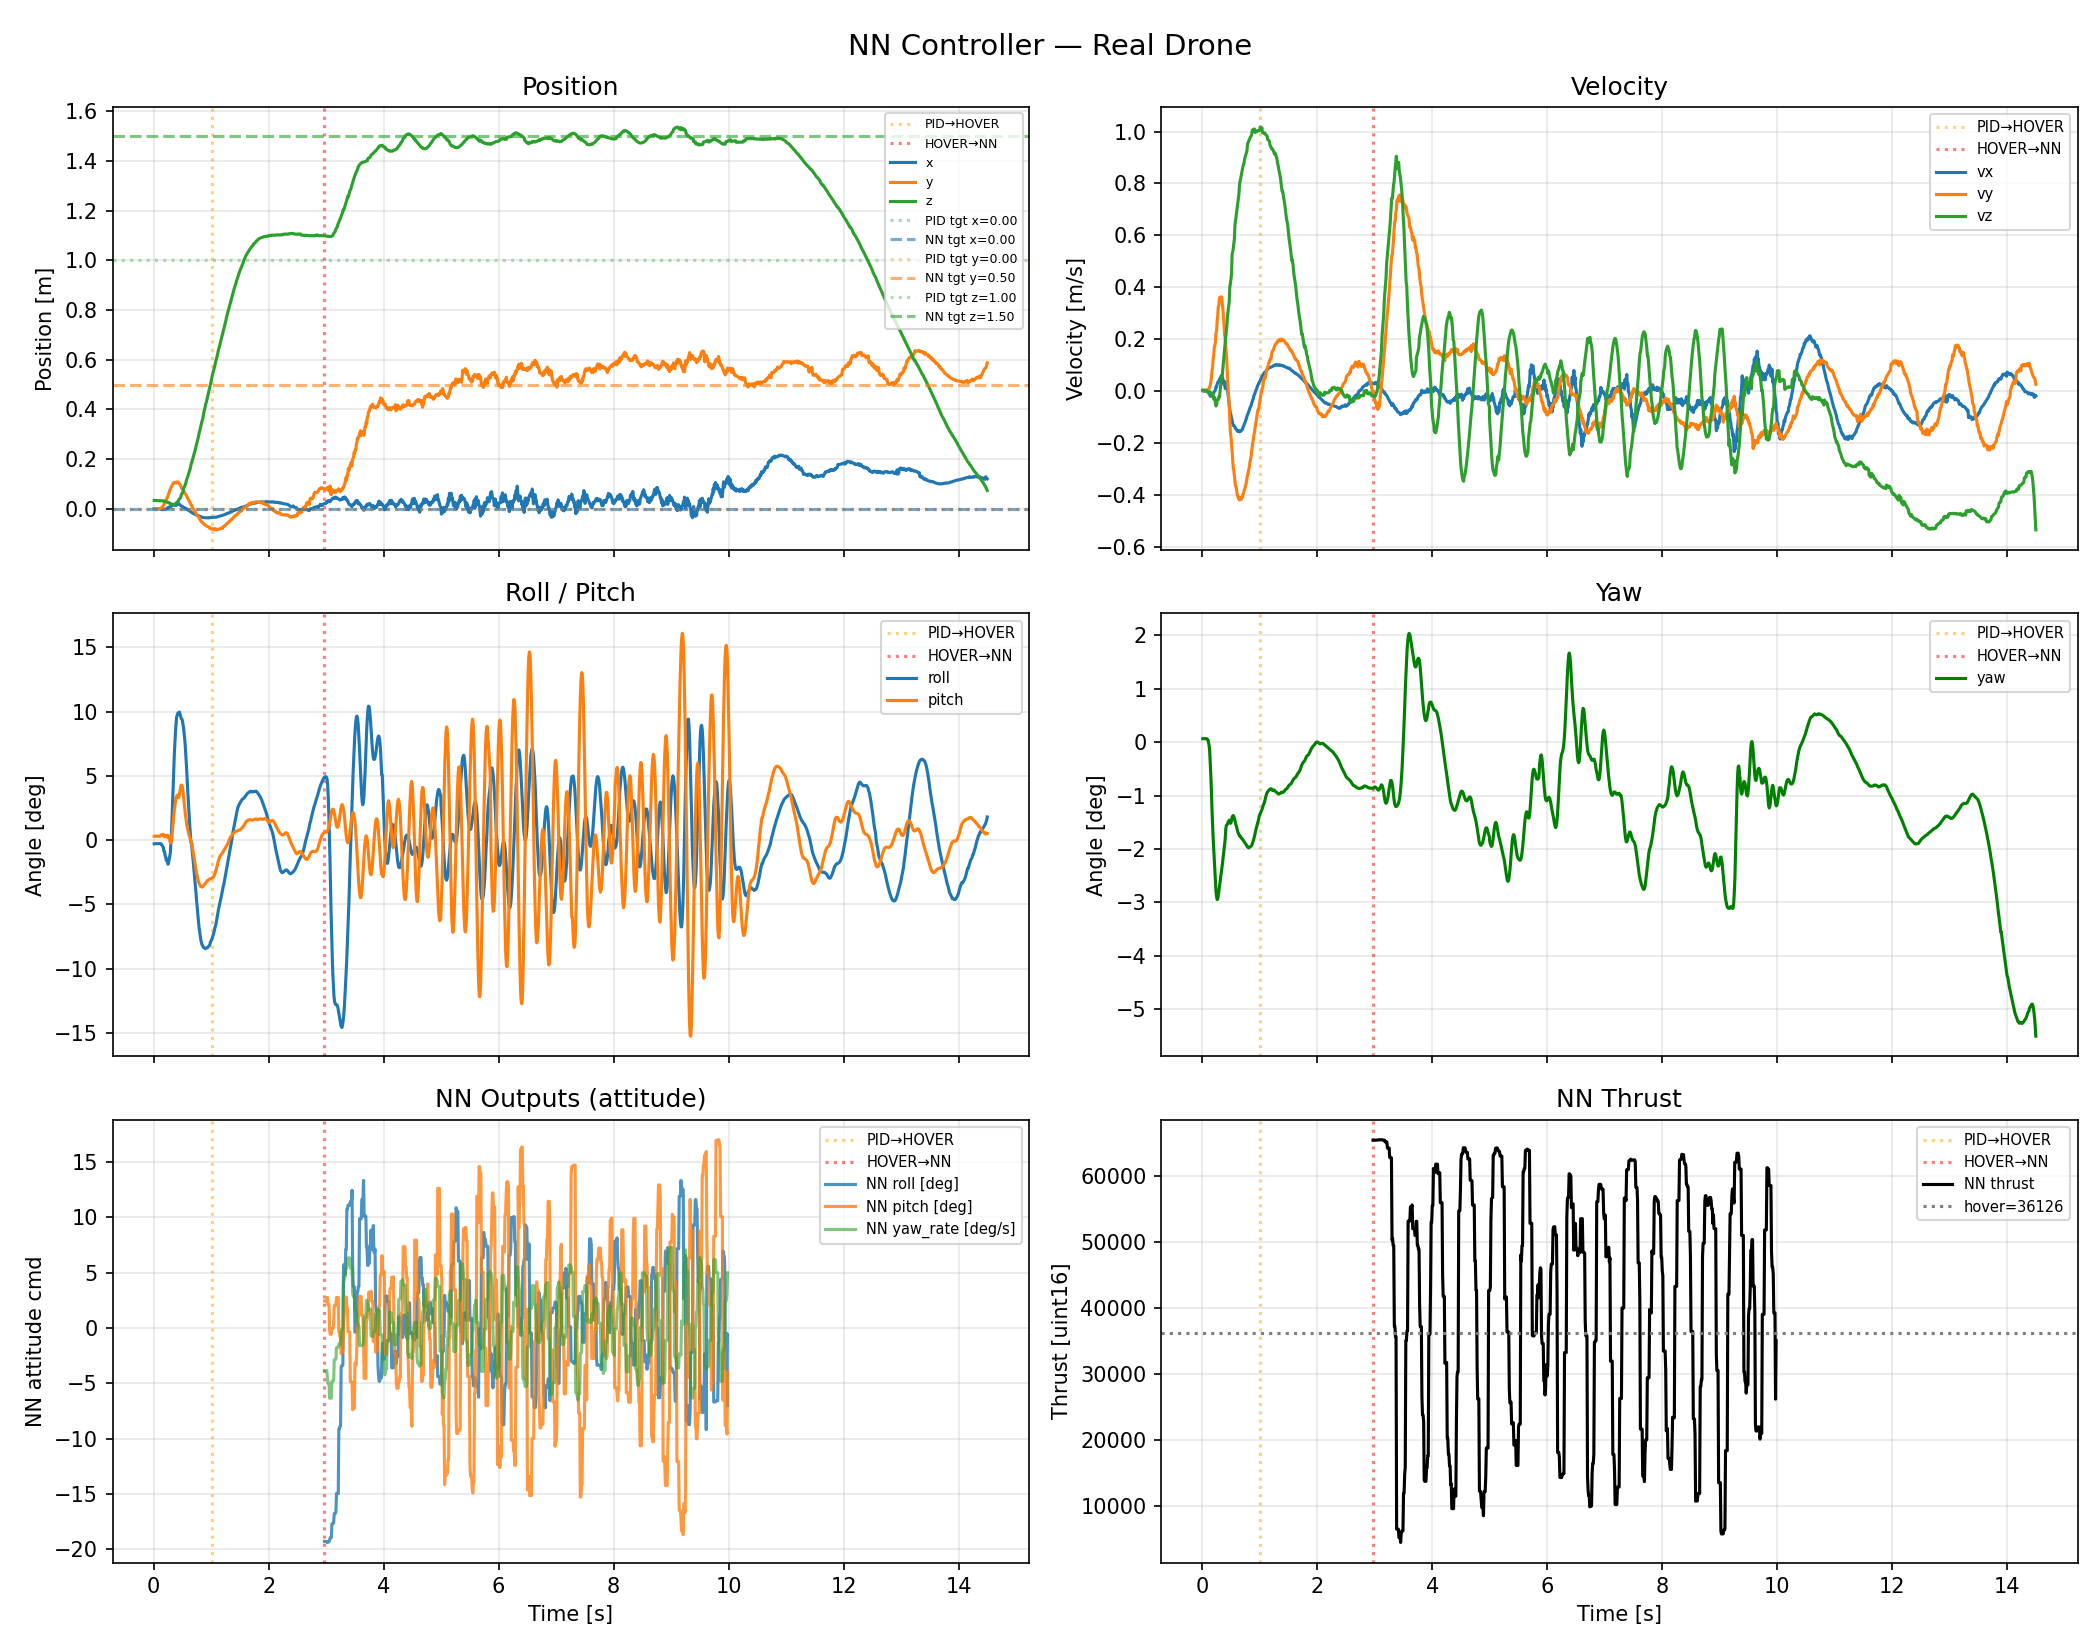
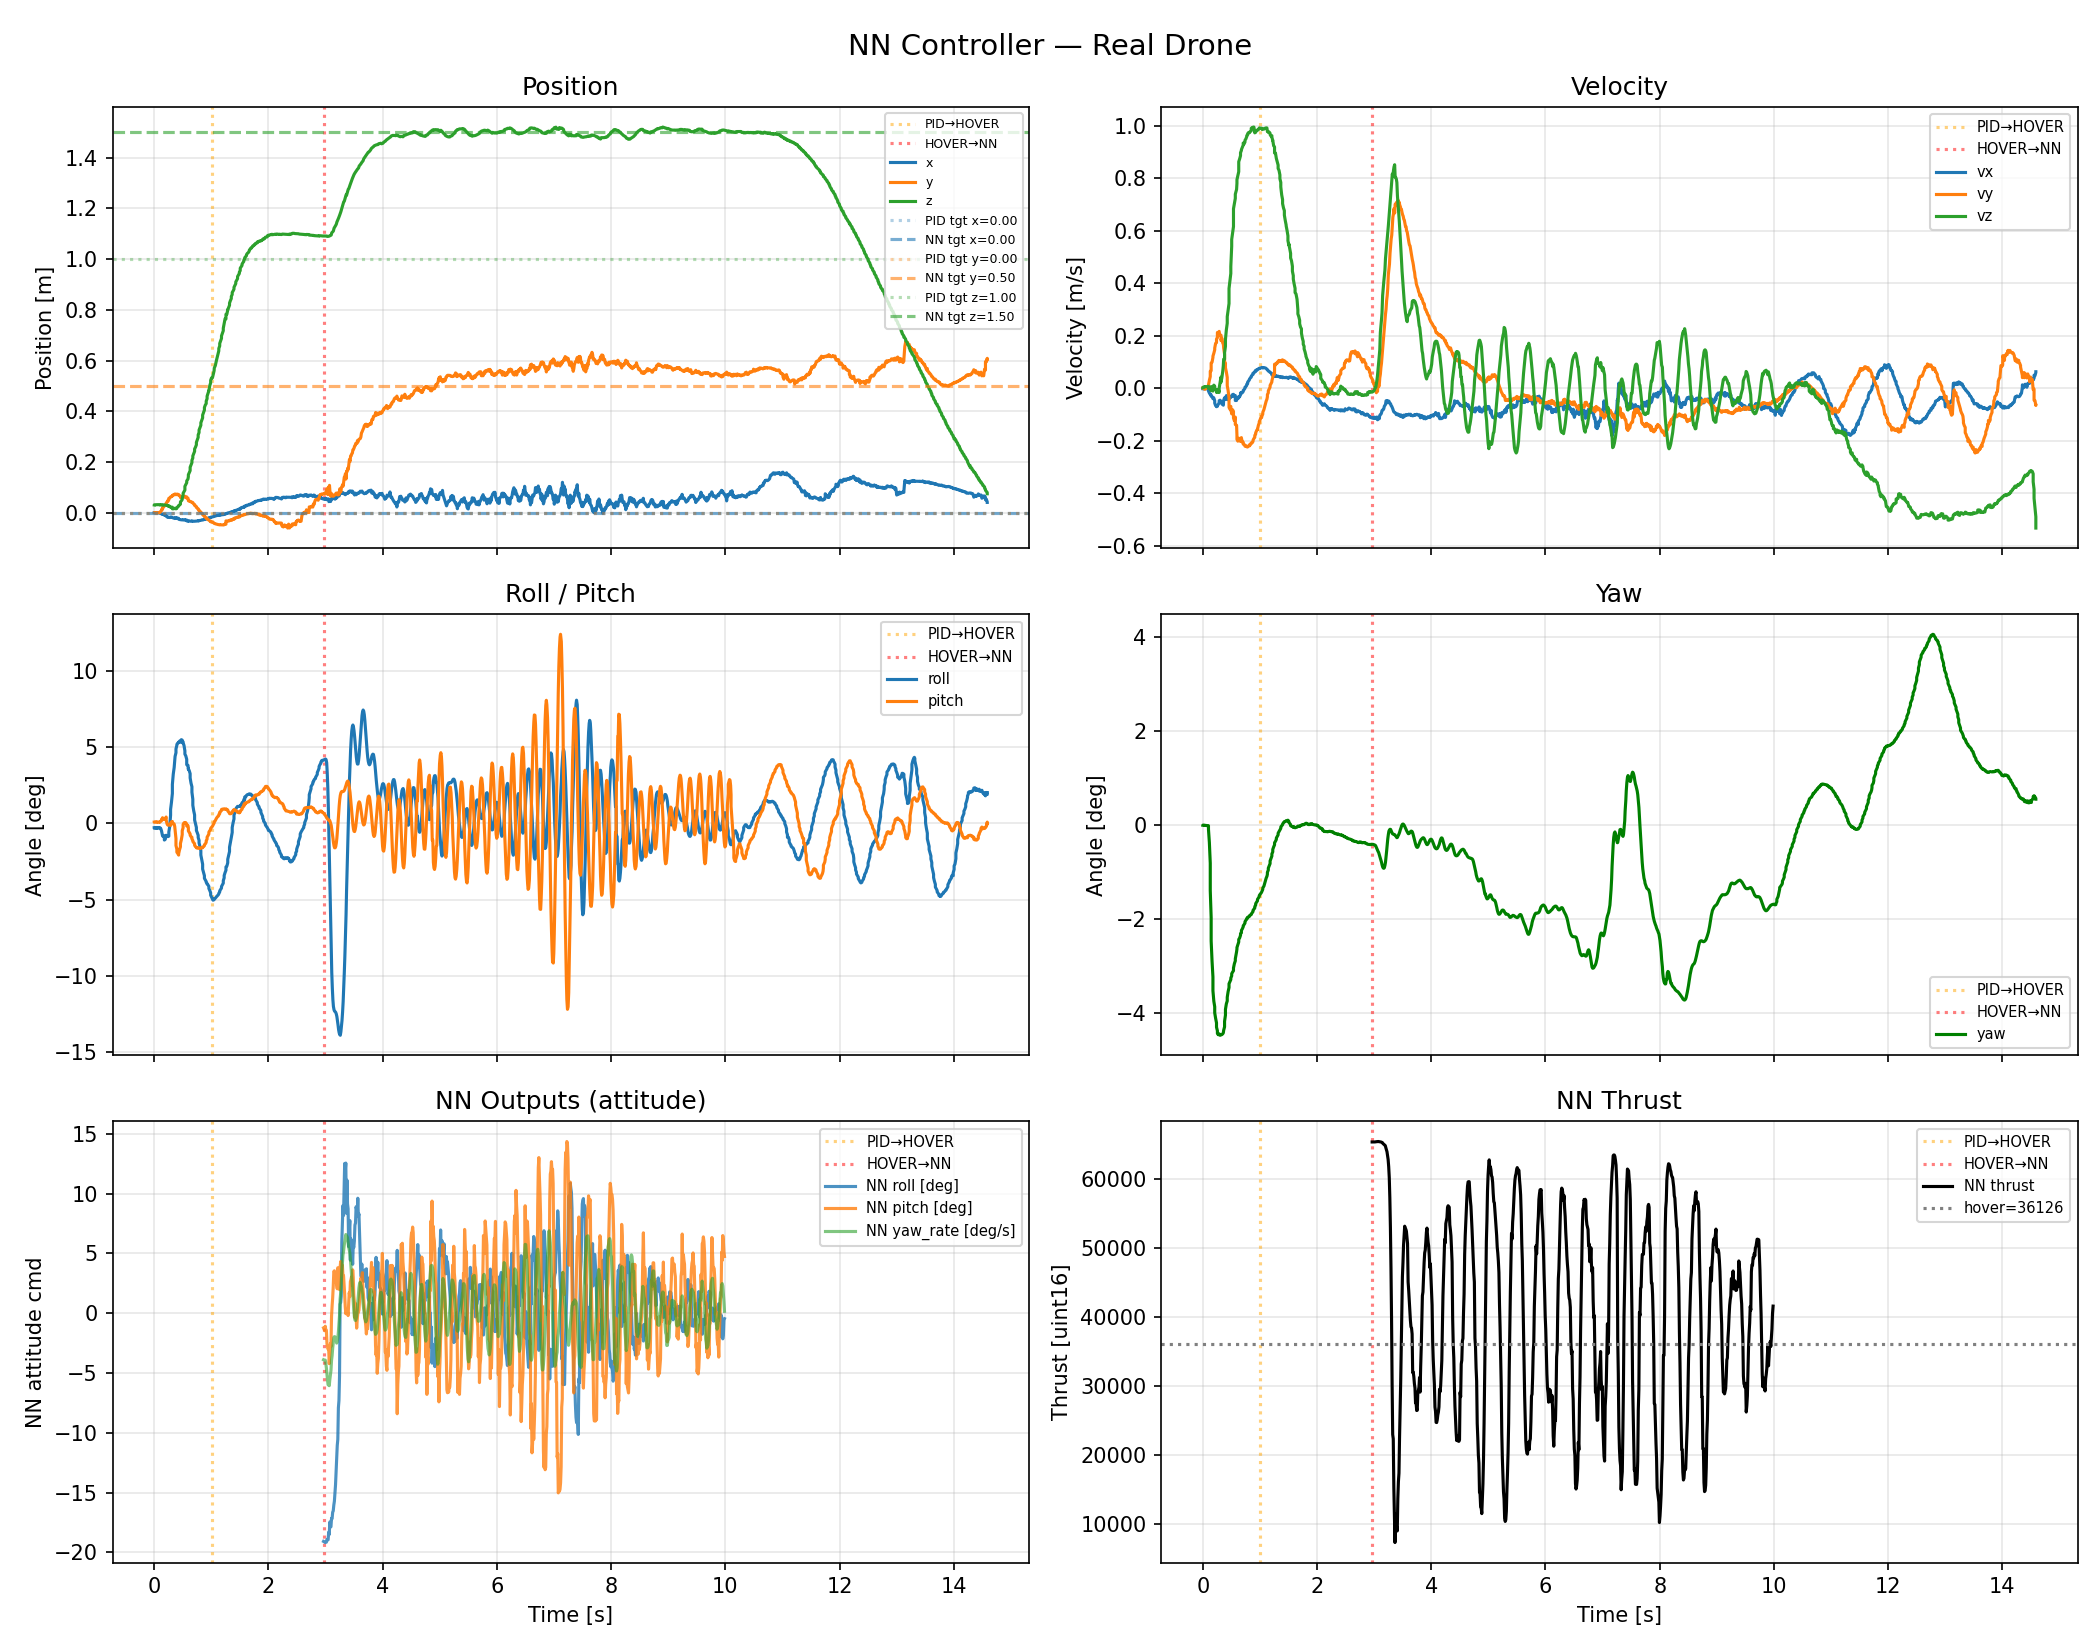
plot the real flight NN commands timing, changed the sync function to use time.perf_counter and a combination of sleep + busy-wait for better accuracy, and added timeBeginPeriod(1) on Windows to improve sleep accuracy.

diff --git a/training_regulation_simu_and_real/fly_nn_cf_pid.py b/training_regulation_simu_and_real/fly_nn_cf_pid.py
@@ -818,14 +818,40 @@ def run_real_nn(ckpt_path: str, takeoff_pos=(0, 0, 0.5), target_pos=(0, 0, 1),
             print(f"[REAL] Phase 2: NN control to {nn_target} for "
                   f"{nn_duration:.0f}s...")
 
-            phase2_start = time.time()
+            def _sync_precise(target: float) -> None:
+                """Wait until target (time.perf_counter). Sleep most of the
+                remaining time, then busy-wait the last 2 ms for accuracy.
+                Requires timeBeginPeriod(1) on Windows so that sleep(~8ms)
+                actually sleeps ~8ms instead of rounding to 15.6ms."""
+                remaining = target - time.perf_counter()
+                if remaining > 0.002:
+                    time.sleep(remaining - 0.002)
+                while time.perf_counter() < target:
+                    pass
+
+            # timeBeginPeriod(1): set Windows timer resolution to 1 ms so that
+            # time.sleep() is accurate. Without this, any sleep < 15.6 ms
+            # rounds up to one full Windows tick and overshoots the target.
+            try:
+                import ctypes
+                ctypes.windll.winmm.timeBeginPeriod(1)
+                _win_timer_set = True
+            except Exception:
+                _win_timer_set = False
+
+            nn_dt = 1.0 / NN_FREQ
+            phase2_start = time.perf_counter()
             for i in range(nn_steps):
+                t_iter_wall = time.time()
+                target_t = phase2_start + (i + 1) * nn_dt
+
                 nn_state = drone_state_to_nn_state(drone_state)
                 thrust, roll_deg, pitch_deg, yaw_rate = \
                     query_nn_chunk(policy, nn_state, nn_target, device)[0]
 
                 nn_cmd_log.append({
                     't': elapsed_phases01 + i / NN_FREQ,
+                    't_wall': t_iter_wall,
                     'thrust': float(thrust),
                     'roll': float(roll_deg),
                     'pitch': float(pitch_deg),
@@ -850,7 +876,10 @@ def run_real_nn(ckpt_path: str, takeoff_pos=(0, 0, 0.5), target_pos=(0, 0, 1),
                           f"err={err:.4f}m  thrust={thrust:.0f}  "
                           f"r={roll_deg:+.1f} p={pitch_deg:+.1f}")
 
-                sync(i, phase2_start, 1.0 / NN_FREQ)
+                _sync_precise(target_t)
+
+            if _win_timer_set:
+                ctypes.windll.winmm.timeEndPeriod(1)
 
         except KeyboardInterrupt:
             print("\n[REAL] Interrupted!")
@@ -989,6 +1018,46 @@ def _plot_real_nn(real_log: list, pid_target: np.ndarray, nn_target: np.ndarray,
     plt.tight_layout()
     plt.savefig('nn_real_results.png', dpi=150)
     print("[PLOT] Saved to nn_real_results.png")
+
+    # ---- Timing plot ------------------------------------------------
+    if nn_cmd_log and 't_wall' in nn_cmd_log[0]:
+        t_wall = np.array([e['t_wall'] for e in nn_cmd_log])
+        t_nominal = np.array([e['t'] for e in nn_cmd_log])
+        # Drift = écart entre le temps réel et le timing théorique
+        drift_ms = (t_wall - t_wall[0] - (t_nominal - t_nominal[0])) * 1000.0
+
+        fig2, axes2 = plt.subplots(2, 1, figsize=(12, 6))
+        fig2.suptitle('NN Send Timing — Real Drone (nominal: 10 ms @ 100 Hz)', fontsize=13)
+
+        ax = axes2[0]
+        ax.plot(t_nominal, drift_ms, lw=0.8, alpha=0.9, label='drift vs nominal [ms]')
+        ax.axhline(0, color='red', ls='--', lw=1.2, label='perfect timing')
+        ax.set_ylabel('Drift [ms]')
+        ax.set_xlabel('Time [s]')
+        ax.legend(fontsize=8)
+        ax.set_title('Cumulative drift vs nominal 100 Hz timeline')
+        ax.grid(True, alpha=0.3)
+
+        ax = axes2[1]
+        intervals_ms = np.diff(t_wall) * 1000.0
+        ax.plot(t_nominal[1:], intervals_ms, lw=0.6, alpha=0.7, label='inter-send interval [ms]')
+        ax.axhline(1000.0 / NN_FREQ, color='red', ls='--', lw=1.2,
+                   label=f'nominal {1000.0/NN_FREQ:.1f} ms')
+        ax.set_ylabel('Interval [ms]')
+        ax.set_xlabel('Time [s]')
+        ax.legend(fontsize=8)
+        ax.set_title('Inter-send interval (jitter)')
+        ax.grid(True, alpha=0.3)
+
+        fig2.tight_layout()
+        fig2.savefig('nn_real_timing.png', dpi=150)
+        print("[PLOT] Saved to nn_real_timing.png")
+        print(f"[TIMING] n={len(intervals_ms)}  "
+              f"mean={np.mean(intervals_ms):.2f} ms  "
+              f"std={np.std(intervals_ms):.2f} ms  "
+              f"min={np.min(intervals_ms):.2f} ms  "
+              f"max={np.max(intervals_ms):.2f} ms  "
+              f"final_drift={drift_ms[-1]:.1f} ms")
     #plt.show()
 
 
